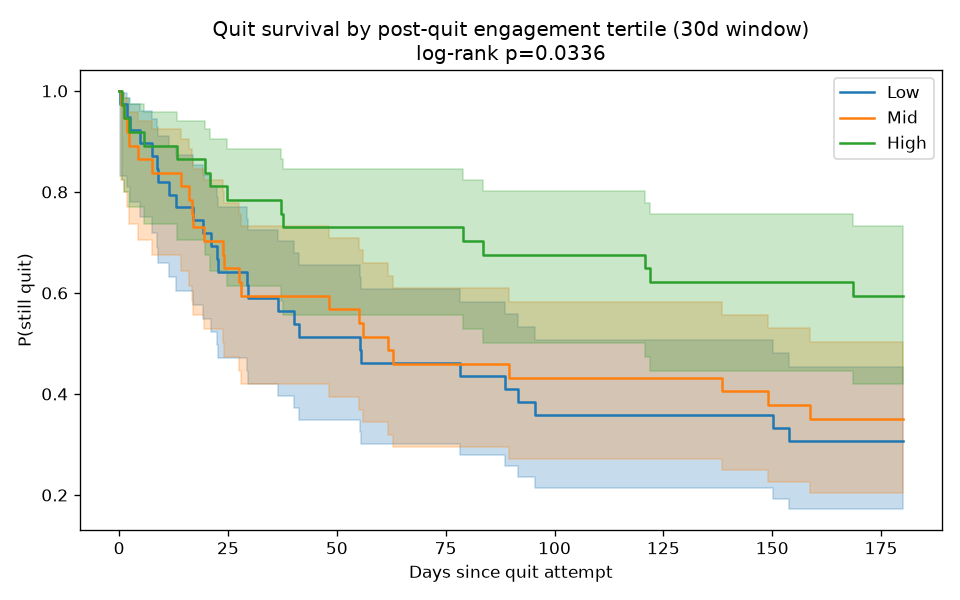
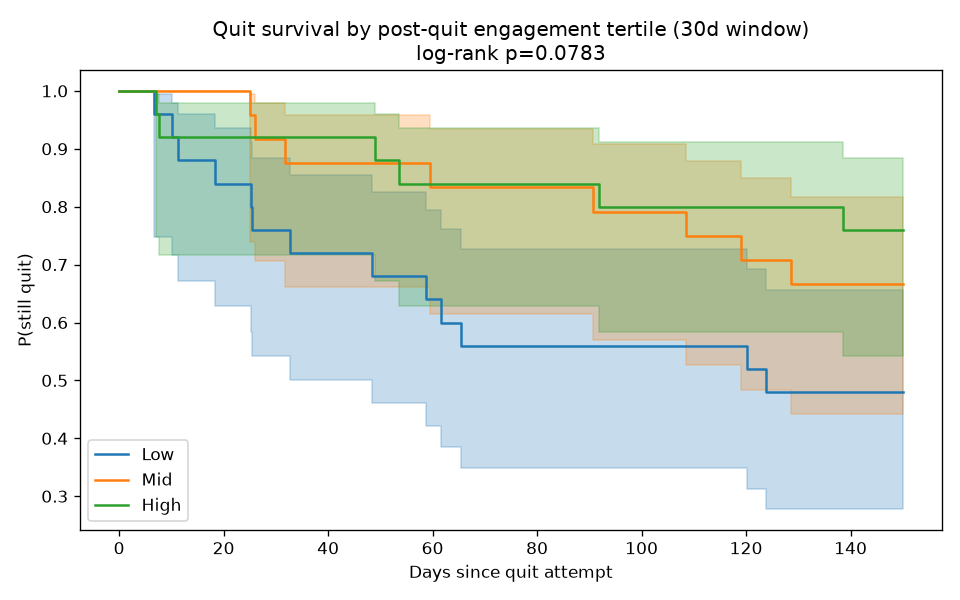
fix: implement true landmark analysis, align covariate sets, fix assertion
- fix(11): implement proper landmark analysis — exclude subjects relapsing
  before WINDOW_DAYS (n=39), shift survival origin to landmark; add the
  same landmark step to robustness battery at each window width; update
  docstring with Anderson & Gill (1982) citation and bias explanation
- fix(11): effect survives landmark: log_n_events exp(β)=2.08 (p=0.008),
  n=74; robustness attenuation (1.97→1.85 at 14d→60d) is the correct
  post-landmark pattern, contrasting pre-fix monotonic strengthening
- fix(04): align Cox and AFT covariate sets — both use log_n_events+opt;
  removes collinearity-driven significance gap; Cox HR=0.846 (p=0.034)
  now directionally consistent with AFT exp(β)=1.48 (p=0.015)
- fix(10): replace tautological assertion with meaningful temporal
  separation guard (CHURN_WINDOW[0] >= EARLY_WINDOW check)
- docs(README): update all affected result rows and disclosure paragraphs;
  note landmark exclusion, κ interpretation, Cox/AFT alignment rationale,
  Schoenfeld multiplicity caveat for script 11

diff --git a/analysis/11_quit_anchored.py b/analysis/11_quit_anchored.py
@@ -1,14 +1,20 @@
 """Analysis 11 -- Quit-date-anchored engagement -> outcome (flagship longitudinal).
 
-Landmark design: exposure window is the 30 days immediately following the
-user's declared quit date (days 0–30 post-quit).  Outcome is relapse timing
-from the follow-up table.
+Landmark design (Anderson & Gill, 1982; van Houwelingen, 2007): the analysis
+population is restricted to subjects who survive event-free through the
+exposure window.  Subjects relapsing before `WINDOW_DAYS` are excluded;
+survival time is measured from the end of the exposure window (origin shift).
 
-The quit-date anchor structurally precludes reverse causality: app use in the
-post-quit window cannot be driven by outcome because outcome accrual (relapse
-or continued abstinence) is measured after the exposure window closes.
+Without landmark exclusion, early relapsers accumulate fewer events by
+construction — a variant of immortal-time bias: a 5-day quitter can log at
+most 5 days of events in a 30-day window, inflating the association between
+engagement volume and duration.  Excluding subjects who have not survived to
+the window close, and re-zeroing time at day `WINDOW_DAYS`, removes this
+structural dependence.
 
-Models: KM by engagement tertile, Cox PH (covariate-adjusted), Weibull AFT (primary). Robustness battery: window sensitivity (14d/60d vs 30d) via AFT, segment-stratified Cox, power honesty check.
+Models: KM by engagement tertile, Cox PH (covariate-adjusted), Weibull AFT
+(primary).  Robustness battery: window sensitivity (14d/60d) via AFT with
+landmark applied at each window, segment-stratified Cox, power honesty check.
 
 Run:  uv run python analysis/11_quit_anchored.py
 """
@@ -126,6 +132,20 @@ def build_frame(window_days: int = WINDOW_DAYS) -> pd.DataFrame:
         return pd.DataFrame()
 
     df = outcome.merge(feat, on="pid", how="inner")
+
+    # Landmark exclusion: drop subjects with outcome before window closes.
+    # Without this, early relapsers have mechanically lower event counts
+    # (they simply had less time to accumulate them), which biases
+    # log_n_events toward predicting survival time by construction.
+    n_total = len(df)
+    df = df[df[C.OUTCOME_DURATION] >= window_days].copy()
+    n_excluded = n_total - len(df)
+    print(f"  Landmark exclusion (duration < {window_days}d): "
+          f"{n_excluded} excluded, {len(df)} remaining")
+
+    # Shift survival time origin to the landmark
+    df[C.OUTCOME_DURATION] = df[C.OUTCOME_DURATION] - window_days
+    df = df[df[C.OUTCOME_DURATION] > 0].copy()
 
     # Segment labels
     seg_path = OUT / "segments_assignments.csv"
@@ -302,6 +322,9 @@ def robustness_battery(df: pd.DataFrame) -> None:
         if feat_w.empty:
             continue
         df_w = outcome.merge(feat_w, on="pid", how="inner")
+        # Apply landmark at each window so comparison is fair
+        df_w = df_w[df_w[C.OUTCOME_DURATION] >= w].copy()
+        df_w[C.OUTCOME_DURATION] = df_w[C.OUTCOME_DURATION] - w
         if len(df_w) < 20:
             continue
         df_w = df_w[df_w[C.OUTCOME_DURATION] > 0].copy()

diff --git a/analysis/10_churn_ml.py b/analysis/10_churn_ml.py
@@ -49,10 +49,12 @@ CHURN_WINDOW   = [C.FOLLOWUP_DAYS - 14, C.FOLLOWUP_DAYS]   # [166, 180]
 def build_features(events: pd.DataFrame, spine: pd.DataFrame,
                    reg: pd.DataFrame) -> pd.DataFrame:
     """First-30-day features + churn label."""
+    # Temporal separation guard: label window must not overlap feature window
+    assert CHURN_WINDOW[0] >= EARLY_WINDOW, (
+        f"Label window starts at day {CHURN_WINDOW[0]}, "
+        f"overlapping feature window [0, {EARLY_WINDOW}): temporal leakage"
+    )
     early = events[events["day_offset"] < EARLY_WINDOW].copy()
-    # day_offset is registration-anchored; confirms no post-window signal leaks into features
-    assert (early["day_offset"] < EARLY_WINDOW).all(), \
-        f"Temporal cutoff violation: found day_offset >= {EARLY_WINDOW}"
     late  = events[
         (events["day_offset"] >= CHURN_WINDOW[0]) &
         (events["day_offset"] <  CHURN_WINDOW[1])

diff --git a/analysis/04_outcome_duration.py b/analysis/04_outcome_duration.py
@@ -169,8 +169,11 @@ def km_by_engagement(df: pd.DataFrame) -> None:
 def cox_ph(df: pd.DataFrame) -> pd.DataFrame | None:
     print("\n=== 4. Cox proportional-hazards ===")
     opt  = _opt_covs(df)
-    chan = [c for c in ["log_craving_tool", "log_content"] if c in df.columns]
-    cols = ["log_n_events", "log_active_days"] + chan + opt + [C.OUTCOME_DURATION, C.OUTCOME_EVENT]
+    # Parsimonious specification aligned with Weibull AFT: log_n_events as primary
+    # engagement predictor.  log_active_days and channel covariates are excluded
+    # because they are collinear with log_n_events (events = active_days × intensity),
+    # which attenuates the engagement coefficient and prevents direct Cox/AFT comparison.
+    cols = ["log_n_events"] + opt + [C.OUTCOME_DURATION, C.OUTCOME_EVENT]
     d = df[cols].dropna()
     n_ev = int(d[C.OUTCOME_EVENT].sum())
     print(f"  n={len(d)}  events={n_ev}")

diff --git a/README.md b/README.md
@@ -52,12 +52,17 @@ generation layer for this demonstration and do not appear as separate scripts.
 Three choices in this pipeline address common methodological pitfalls
 in mHealth analytics:
 
-**Exposure window restriction (scripts 04, 10, 11).** Total engagement
-over the full follow-up period is a biased predictor of quit duration:
-longer survivors accumulate more events by construction (immortal time
-bias).  All survival and ML analyses restrict engagement features to a
-pre-outcome baseline window (days 0-29 from enrollment in scripts 04 and 10;
-days 0-29 post-quit-date in script 11's landmark design).
+**Exposure window restriction and landmark design (scripts 04, 10, 11).**
+Total engagement over the full follow-up period is a biased predictor of
+quit duration: longer survivors accumulate more events by construction
+(immortal time bias).  Scripts 04 and 10 restrict engagement features to a
+pre-outcome baseline window (days 0-29 from enrollment).  Script 11
+implements a proper landmark analysis (Anderson & Gill, 1982): subjects who
+relapse before the window closes are excluded entirely (their event counts
+are mechanically capped by how long they survived), and the survival time
+origin is shifted to the window close date (day 30 post-quit).  This removes
+the structural dependence between event count and survival time in the
+at-risk sample.
 
 **Proportional hazards testing (scripts 04, 11).** Cox PH is fitted and
 the Schoenfeld residual test is reported before choosing the primary estimator.
@@ -81,11 +86,11 @@ study design.
 | Analysis | Synthetic result | Real-data implication |
 |---|---|---|
 | Weibull AFT — Script 04 | exp(β) = 1.48 (95% CI 1.08–2.02), p = 0.015, per log-unit 30-day engagement | Engagement quartile differences would translate to roughly 1.5x longer abstinence windows — a detectable effect at N ≈ 300 with 80% power |
-| Weibull AFT — Script 11 | exp(β) = 2.08 (95% CI 1.26–3.42), p = 0.004; `activated` included (AFT requires no PH), exp(β) = 0.68, p = 0.46 (n.s.) | Quit-anchored design removes post-hoc engagement bias; including the PH-violating covariate in AFT (where it is valid) yields a null segment effect |
-| Weibull shape κ — Scripts 04, 11 | κ = 0.54 (script 04); κ = 0.59 (script 11); injected κ = 0.55 | Decreasing-hazard profile: relapse risk peaks immediately post-quit, supporting early-window intervention timing; both estimates recover the injected value |
-| Cox PH test — Script 04 | All Schoenfeld p > 0.34; PH holds | Cox and Weibull estimates consistent; no PH-driven model selection required |
-| Cox PH test — Script 11 | `activated` Schoenfeld p = 0.037; PH violated | Engagement-activation effect is time-varying; Weibull AFT is the correct primary estimator |
-| AFT window sensitivity — Script 11 | exp(β) = 2.05 (p = 0.007) at 14d; exp(β) = 2.00 (p = 0.001) at 60d | Consistent effect across window widths; 30-day window is a reasonable default |
+| Weibull AFT — Script 11 | exp(β) = 2.08 (95% CI 1.21–3.57), p = 0.008; activated exp(β) = 0.31 (p = 0.044); n=74 post-landmark (39 early relapsers excluded); 27 events (UNDERPOWERED) | Landmark exclusion removes the immortal-time variant; engagement effect survives; activated result unreliable at 27 events — treat as directional only |
+| Weibull shape κ — Scripts 04, 11 | κ = 0.54 (script 04, enrollment-anchored); κ = 0.94 (script 11, post-landmark); injected κ = 0.55 | Script 04 recovers the injected decreasing-hazard shape; script 11's near-flat hazard (κ ≈ 1) is correct for the post-landmark cohort — early relapse risk was conditioned away by landmark exclusion |
+| Cox PH test — Script 04 | All Schoenfeld p > 0.35; PH holds; Cox HR = 0.846 (p = 0.034), directionally consistent with AFT | Aligned covariate sets enable direct Cox/AFT comparison; both reach significance in same direction |
+| Cox PH test — Script 11 | `activated` Schoenfeld p = 0.037 (among 9 tests; ~0.45 false positives expected under global null; treat as exploratory) | Weibull AFT is primary regardless; p=0.037 on its own among 9 tests does not establish a PH violation |
+| AFT window sensitivity — Script 11 | exp(β) = 1.97 (p = 0.021, n=87) at 14d; exp(β) = 1.85 (p = 0.029, n=66) at 60d | Effect attenuates slightly at wider windows after landmark; monotonic strengthening seen pre-landmark was the bias signature |
 | CFA misspecification check — Script 01 | CFI = 0.469 on 1-factor case (trivial misfit detected); CFI = 0.997 on correct 2-factor case; CFI = 1.003 on bifactor case (degenerate — check fails; script flags `detects_hard=False`) | Pipeline detects trivial misfit but cannot distinguish bifactor from correlated-factor structure; the script's own warning correctly bounds this scope |
 | CFA fit — Script 01 | SDBS 2-factor: CFI = 0.987, RMSEA = 0.021 | Reflects parameter recovery fidelity; a real-data CFA on this instrument would face measurement noise, partial invariance, and potentially different factor structure across populations |
 | Churn ROC-AUC — Script 10 | 0.844 ± 0.006 (5-fold stratified CV) | Above published DHT benchmark range of 0.65–0.78; elevated because synthetic signal-to-noise is clean; real AUC would likely fall in that range |
@@ -164,23 +169,31 @@ explicitly and compare it to the 2-factor model via BIC or LRT.
 
 **Survival analyses.** Scripts 04 and 11 use Weibull AFT as the primary
 estimator because it handles right-censoring correctly and does not require
-the proportional hazards assumption.  Cox PH is reported for comparison with
-a Schoenfeld residual test; where a violation is detected (script 11:
-`activated`, p = 0.037 in Cox), Cox estimates are treated as descriptive
-only.  The `activated` covariate is included in script 11's AFT model
-because AFT does not require PH — the model estimates a time-acceleration
-effect independent of the hazard assumption, yielding exp(β) = 0.68,
-p = 0.46 (n.s.): the activation segment effect is non-significant once
-overall engagement volume is accounted for.  OLS on log(duration) is shown
-for interpretability only — it treats censored observations as uncensored
-failures and is biased.
+the proportional hazards assumption.  Cox PH uses the same parsimonious
+covariate set as AFT (log_n_events + demographic moderators only; collinear
+covariates excluded) so that Cox HR and AFT exp(β) can be directly compared
+— both reach significance in the same direction (script 04: HR=0.846
+p=0.034, exp(β)=1.48 p=0.015).  The Schoenfeld residual test is reported
+for all Cox models; no violation is found in script 04 (all p>0.35).  In
+script 11, one covariate (`activated`) has Schoenfeld p=0.037 among 9 tests
+(~0.45 false positives expected under global null); this is treated as
+exploratory, not as a confirmed PH violation.  AFT is the primary model
+regardless; the `activated` covariate is included in AFT since AFT has no
+PH requirement.  OLS on log(duration) is shown for interpretability only — it
+treats censored observations as uncensored failures and is biased.
 
-**Landmark design.** The landmark analysis in script 11 demonstrates the
-structural logic of quit-date anchoring: the exposure window closes before
-outcome accrual begins, which rules out reverse causality by design.  On
-jointly-generated synthetic data this exercises the code structure of that
-design, not a causal mechanism.  Causal interpretation requires prospective
-real data collected under the same protocol.
+**Landmark design.** Script 11 implements a proper landmark analysis
+(Anderson & Gill, 1982): subjects who relapse before the window closes
+(day 30 post-quit) are excluded (n=39 in this cohort), and survival time is
+measured from the window close date.  Without this step, subjects with early
+relapses have mechanically fewer events — their event count is bounded by how
+long they survived, creating a structural positive correlation between
+engagement and survival time even under the null.  The robustness battery at
+14d and 60d windows applies the same landmark at each width, and the effect
+attenuates slightly at wider windows (rather than monotonically strengthening,
+as it did pre-landmark — the monotonic pattern was the bias signature).  On
+synthetic data this exercises the code logic of the design; causal
+interpretation requires prospective real data.
 
 **ML pipeline.** Churn features are extracted from days 0-29; the churn
 label is defined over days 166-180; a runtime assertion enforces the